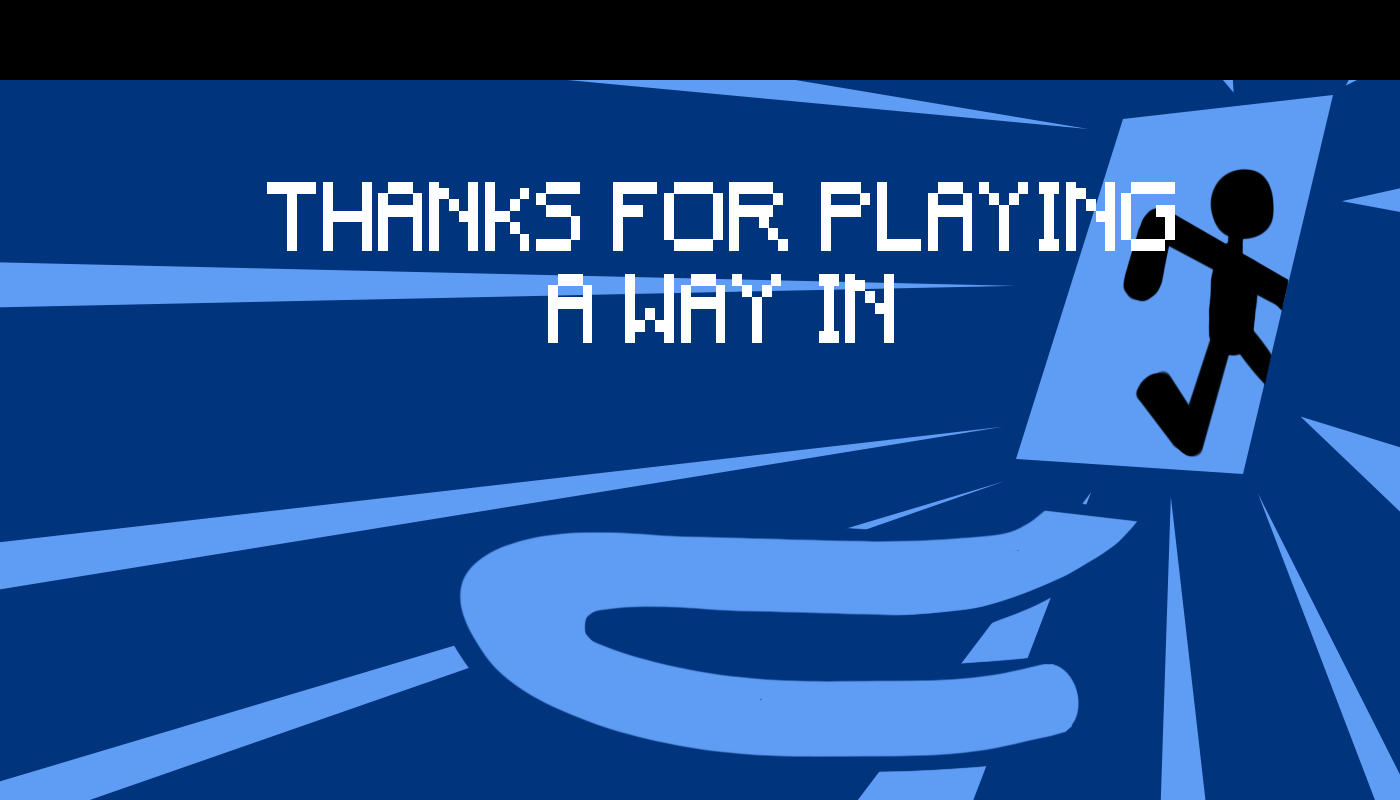
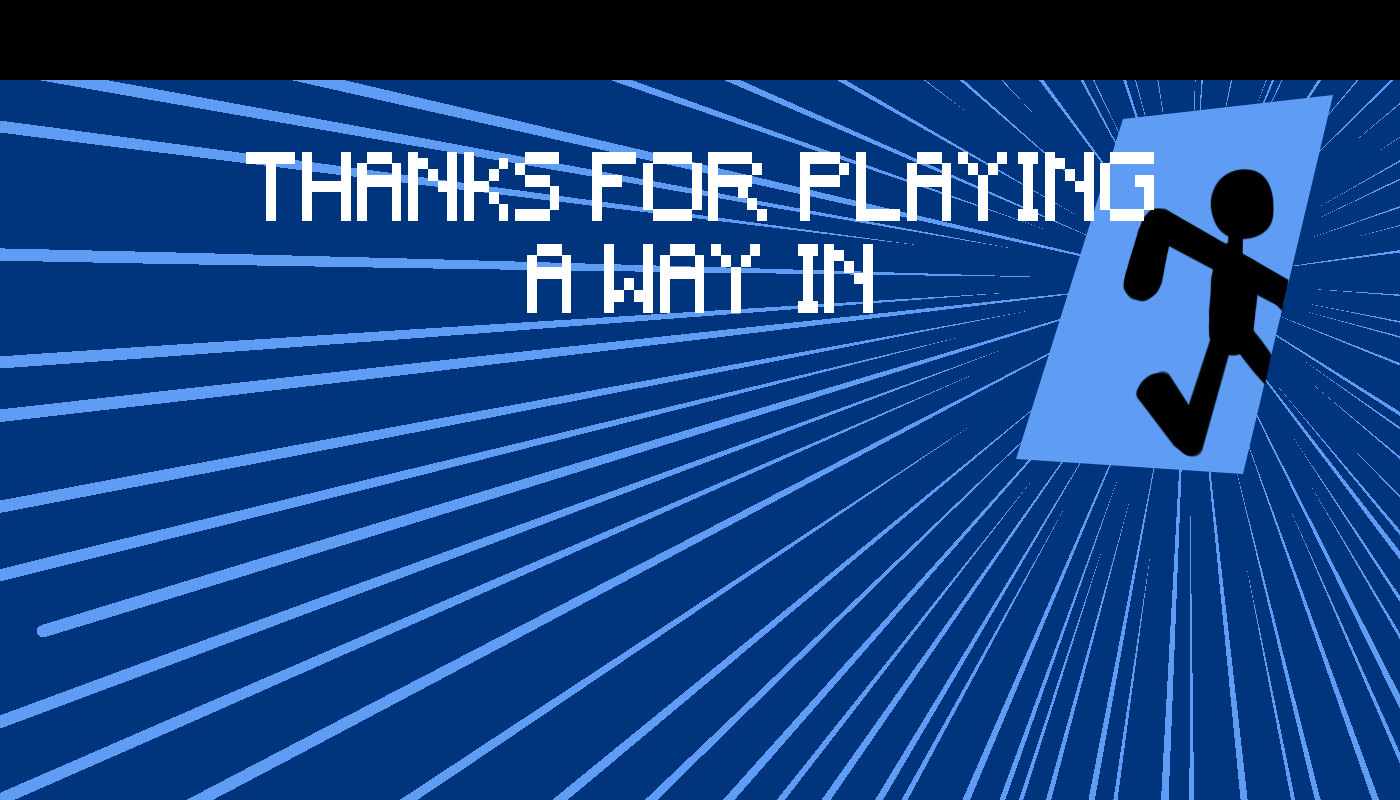
updated main screen

diff --git a/tempCodeRunnerFile.py b/tempCodeRunnerFile.py
@@ -1,1 +1,1 @@
-and coint_given == False:
+and coint_given == False
